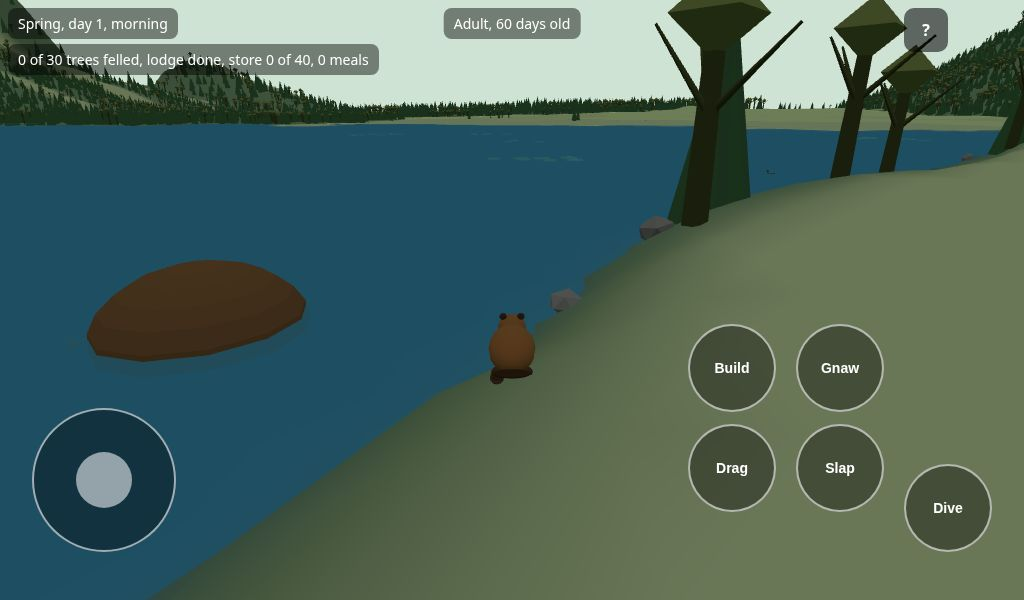
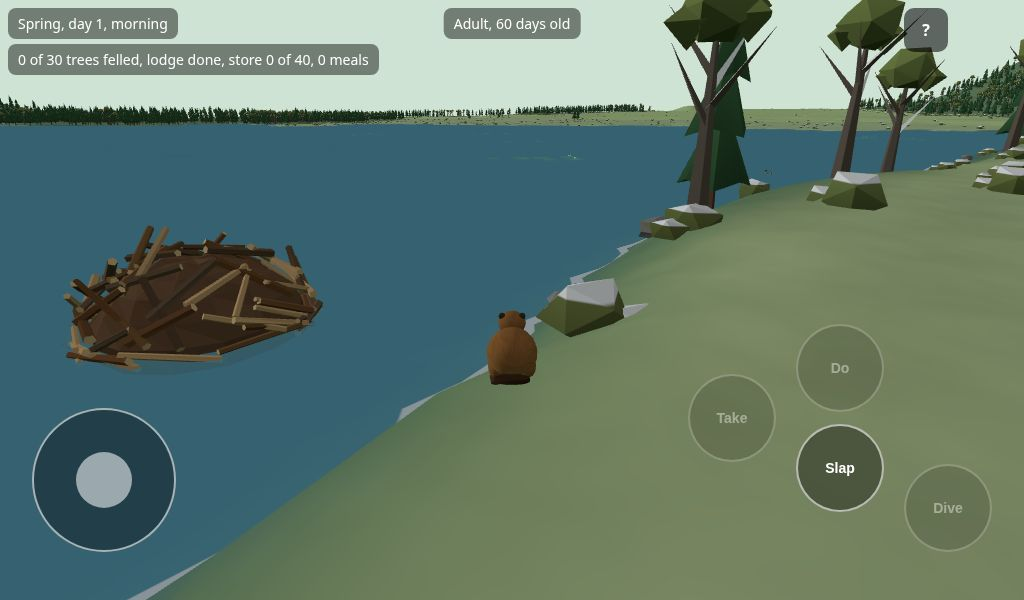
test: run the button e2e specs, retake the manual pictures (#341) (#391)
* test: the tiles smoke test waits for the first meshes

The streamer builds the first tile meshes a few frames after the game
starts, so reading the stats at once found none on the real valley.

* fix: Do reads Build, not Mend, when a log raises a dam

A good whole dam that has worn a little is raised to the next level by
the press, and the HUD says press Build, but the button read Mend.

* docs: retake the manual pictures with the Take and Do buttons

The tree picture stands inside the gnaw reach so Do reads Gnaw. The
manual says Gnaw is the Do button, counts four buttons, and carries the
log to the ring as the coach does.

* test: the playtest helpers keep the mouth empty for Gnaw and Take

A second Gnaw press by a new log strips a branch into the mouth, and then
Take drops it and picks it up again before the log. The fell helper now
presses only when nothing is being gnawed, and the log helper puts down
what is in the mouth away from the log before it takes the log.

---------

diff --git a/tests/e2e/helpers.ts b/tests/e2e/helpers.ts
@@ -94,11 +94,15 @@ export async function fellNearestTree(page: Page, reach = 120): Promise<string |
     return g.nearestTree(b.x, b.z, r);
   }, reach);
   if (!tree) return null;
-  // Stand still within reach and gnaw. A press while the beaver is still moving does nothing, so a miss tries again.
+  // Stand still within reach and gnaw. A press while the beaver is still moving does nothing, so a miss tries again. A press
+  // while the tree is still being gnawed, or once it is down, would strip a branch off the new log into the mouth, and a full
+  // mouth stops the next Gnaw and Take, so a retry presses only when nothing is being gnawed.
   for (let attempt = 0; attempt < 4; attempt++) {
     await walkToPoint(page, tree, 2.2 + attempt * 0.2, 40_000);
     await page.waitForTimeout(300);
-    await tap(page, 'KeyE');
+    const w = await world(page);
+    if (w.felled.includes(tree.id)) return tree.id;
+    if (!w.chop) await tap(page, 'KeyE');
     const done = await page.waitForFunction((id) => (window as any).__game.world().felled.includes(id), tree.id, { polling: 100, timeout: 15_000 }).then(() => true, () => false);
     if (done) return tree.id;
     if (process.env.PLAYTEST_DEBUG) {
@@ -116,7 +120,21 @@ export async function dragLog(page: Page, id: string): Promise<void> {
   const half = log.length / 2;
   // Points along the log, from its near end to the middle: the beaver reaches 2.5 m from the nearest point of the log.
   const along = [0, 0.25, 0.5].map((f) => ({ x: log.x - Math.sin(log.heading) * half * (1 - f), z: log.z - Math.cos(log.heading) * half * (1 - f) }));
+  // Take drops what is in the mouth, and then picks up a piece put down before a log. A press short of the log can also take
+  // mud or a rock. So whatever is in the mouth is put down well away from the log first.
+  const emptyMouth = async (back: Point): Promise<void> => {
+    const w = await world(page);
+    if (!w.carry && !w.haul) return;
+    const d = Math.hypot(w.beaver.x - log.x, w.beaver.z - log.z) || 1;
+    const out = half + 6;
+    await walkToPoint(page, { x: log.x + ((w.beaver.x - log.x) / d) * out, z: log.z + ((w.beaver.z - log.z) / d) * out }, 1.5, 15_000);
+    await tap(page, 'KeyG');
+    await page.waitForFunction(() => !(window as any).__game.world().carry && !(window as any).__game.world().haul, null, { polling: 100, timeout: 3000 }).catch(() => undefined);
+    await walkToPoint(page, back, 1.5, 15_000);
+    await page.waitForTimeout(200);
+  };
   for (let attempt = 0; attempt < 4; attempt++) {
+    await emptyMouth(along[Math.min(attempt, along.length - 1)]!);
     await tap(page, 'KeyG');
     const got = await page.waitForFunction((i) => (window as any).__game.world().drag === i, id, { polling: 100, timeout: 1500 }).then(() => true, () => false);
     if (got) return;

diff --git a/public/manual.html b/public/manual.html
@@ -69,11 +69,11 @@
   <li>
     <b>Walk and swim</b>
     <p>Push the <b>stick</b> to walk. Drag the empty screen to turn the view. Walk into the water to swim.</p>
-    <figure><img src="manual/screen.jpg" alt="The game on a tablet: the beaver by the lake, the stick at the bottom left and five round buttons at the bottom right" loading="lazy" /><figcaption>The stick is on the left. The buttons are on the right.</figcaption></figure>
+    <figure><img src="manual/screen.jpg" alt="The game on a tablet: the beaver by the lake, the stick at the bottom left and four round buttons at the bottom right: Take, Do, Slap and Dive" loading="lazy" /><figcaption>The stick is on the left. The buttons are on the right. A grey button cannot do anything here.</figcaption></figure>
   </li>
   <li>
     <b>Gnaw a tree</b>
-    <p>Walk up to a tree and stand still. Press <span class="btn">Gnaw</span> (<kbd>E</kbd>) until it falls.</p>
+    <p>Walk up to a tree and stand still. Press <span class="btn">Gnaw</span> (<kbd>E</kbd>) until it falls. Gnaw is the <span class="btn">Do</span> button: the word on it changes with what you can do.</p>
     <figure><img src="manual/tree.jpg" alt="The beaver standing beside a big tree on the lake shore" loading="lazy" /><figcaption>Stand close to the tree, and do not move.</figcaption></figure>
   </li>
   <li>
@@ -83,7 +83,7 @@
   </li>
   <li>
     <b>Carry it to a white ring</b>
-    <p>Near a stream there is a <b>white ring</b> on the ground. That is a place for a dam. Drag the log into the ring.</p>
+    <p>Near a stream there is a <b>white ring</b> on the ground. That is a place for a dam. Carry the log into the ring.</p>
     <figure><img src="manual/drag.jpg" alt="The beaver dragging a log along the shore" loading="lazy" /></figure>
   </li>
   <li>

diff --git a/src/sim/buttons.ts b/src/sim/buttons.ts
@@ -5,7 +5,7 @@
 import { atStore, storeCondition, strippable } from './food';
 import { reachablePad } from './lily';
 import { checkSite, lodgeComplete, lodgeCondition, logWood, nearLodge, type Lodge } from './lodge';
-import { damAt, damMendUnits, placed, settled, spotAt } from './dam';
+import { damAt, damMendUnits, placed, raised, settled, spotAt } from './dam';
 import { lodgeGround, pondAt, type Pond } from './pond';
 import { STAGE_RULES, stageAt } from './life';
 import { canScoopMud, reachableDropped, reachableRock } from './haul';
@@ -89,7 +89,11 @@ export function placeHere(world: WorldState, ground: Terrain, log: Log | undefin
   const spot = spotAt(world.spots, b.x, b.z);
   if (spot && (log || world.haul)) {
     const add = log ? { wood: logWood(log) } : world.haul!.kind === 'mud' ? { mud: 1 } : { rock: 1 };
-    if (placed(world.dams, spot, add, undefined, world.clock) !== world.dams) return damMendUnits(settled(damAt(world.dams, spot), world.clock, spot), world.clock) > 0 ? 'mend' : 'build';
+    if (placed(world.dams, spot, add, undefined, world.clock) !== world.dams) {
+      // A good whole dam that can go up a level is raised by the press, not mended, even when it has worn a little.
+      const dam = settled(damAt(world.dams, spot), world.clock, spot);
+      return raised(dam, spot, world.clock) === undefined && damMendUnits(dam, world.clock) > 0 ? 'mend' : 'build';
+    }
   }
   if (!log) return null;
   const target = world.lodge ?? newLodge(ground, world.ponds, b.x, b.z, b.heading);

diff --git a/src/sim/buttons.test.ts b/src/sim/buttons.test.ts
@@ -1,5 +1,8 @@
 import { describe, expect, it } from 'vitest';
 import { doHere, takeHere, takeLabel, DO_LABEL } from './buttons';
+import { DAY_SECONDS } from './clock';
+import { LEVEL_COST, placed } from './dam';
+import type { DamSpot } from './damSpots';
 import { createWorld, type WorldState } from './state';
 import { flatTerrain } from './terrain';
 import { CHOP_REACH, noTrees, type TreeRef, type TreeSource } from './trees';
@@ -40,6 +43,14 @@ describe('Do', () => {
   it('does nothing else with a full mouth or while the stash is open', () => {
     expect(doHere({ ...world(), carry: 'branch' }, flat, trees, none)).toBeNull();
     expect(doHere({ ...world(), stashOpen: true }, flat, trees, none)).toBeNull();
+  });
+
+  it('builds when a log raises a good dam that has worn a little, and mends a worn one', () => {
+    const spot: DamSpot = { id: 'core:0:0', bed: { x: 0, z: 0 }, bedY: 0, flow: { x: 1, z: 0 }, maxCrest: 2, pondM2: 900 };
+    const dams = placed([], spot, LEVEL_COST[2]!, undefined, 0); // level 1, whole, new at clock 0
+    const at = (clock: number): WorldState => ({ ...world(), clock, spots: [spot], dams, logs: [log], drag: 'l' });
+    expect(doHere(at(2 * DAY_SECONDS), flat, noTrees, none)).toBe('build'); // 0.8: raised to level 2
+    expect(doHere(at(12 * DAY_SECONDS), flat, noTrees, none)).toBe('mend'); // worn
   });
 
   it('has a word for every job', () => {

diff --git a/tests/e2e/manual-shots.spec.ts b/tests/e2e/manual-shots.spec.ts
@@ -52,8 +52,8 @@ test.describe('pictures for the manual', () => {
     });
     if (tree) {
       // The trunk is about 2 m across at the foot, so a beaver at the tree's centre is hidden inside it: this picture is taken
-      // from a little short of it. (There is no picture of the gnawing itself for the same reason: the beaver ends up at the trunk.)
-      await walkToPoint(page, tree, 3.4, 40_000);
+      // from a little short of it, inside the 3 m gnaw reach so the Do button reads Gnaw. (There is no picture of the gnawing itself for the same reason: the beaver ends up at the trunk.)
+      await walkToPoint(page, tree, 2.7, 40_000);
       await page.waitForTimeout(500);
       await frame(page, 0, 0.3, 8, tree);
       await take(page, 'tree');

diff --git a/tests/e2e/smoke.spec.ts b/tests/e2e/smoke.spec.ts
@@ -18,7 +18,8 @@ test('tiles stream in when they have been built', async ({ page }) => {
   const stats = await page.evaluate(() => (window as any).__game.stats());
   // Tiles are built locally and absent in CI, where the flat fallback is used.
   if (stats) {
-    expect(stats.meshes).toBeGreaterThan(0);
+    // The streamer builds the first meshes over the next frames, so wait for them rather than read them at once.
+    await page.waitForFunction(() => (window as any).__game.stats().meshes > 0, null, { polling: 200, timeout: 30_000 });
     const y = await page.evaluate(() => (window as any).__game.world().beaver.y);
     expect(y).toBeGreaterThan(500); // standing on the real ground, not at 0
   }
